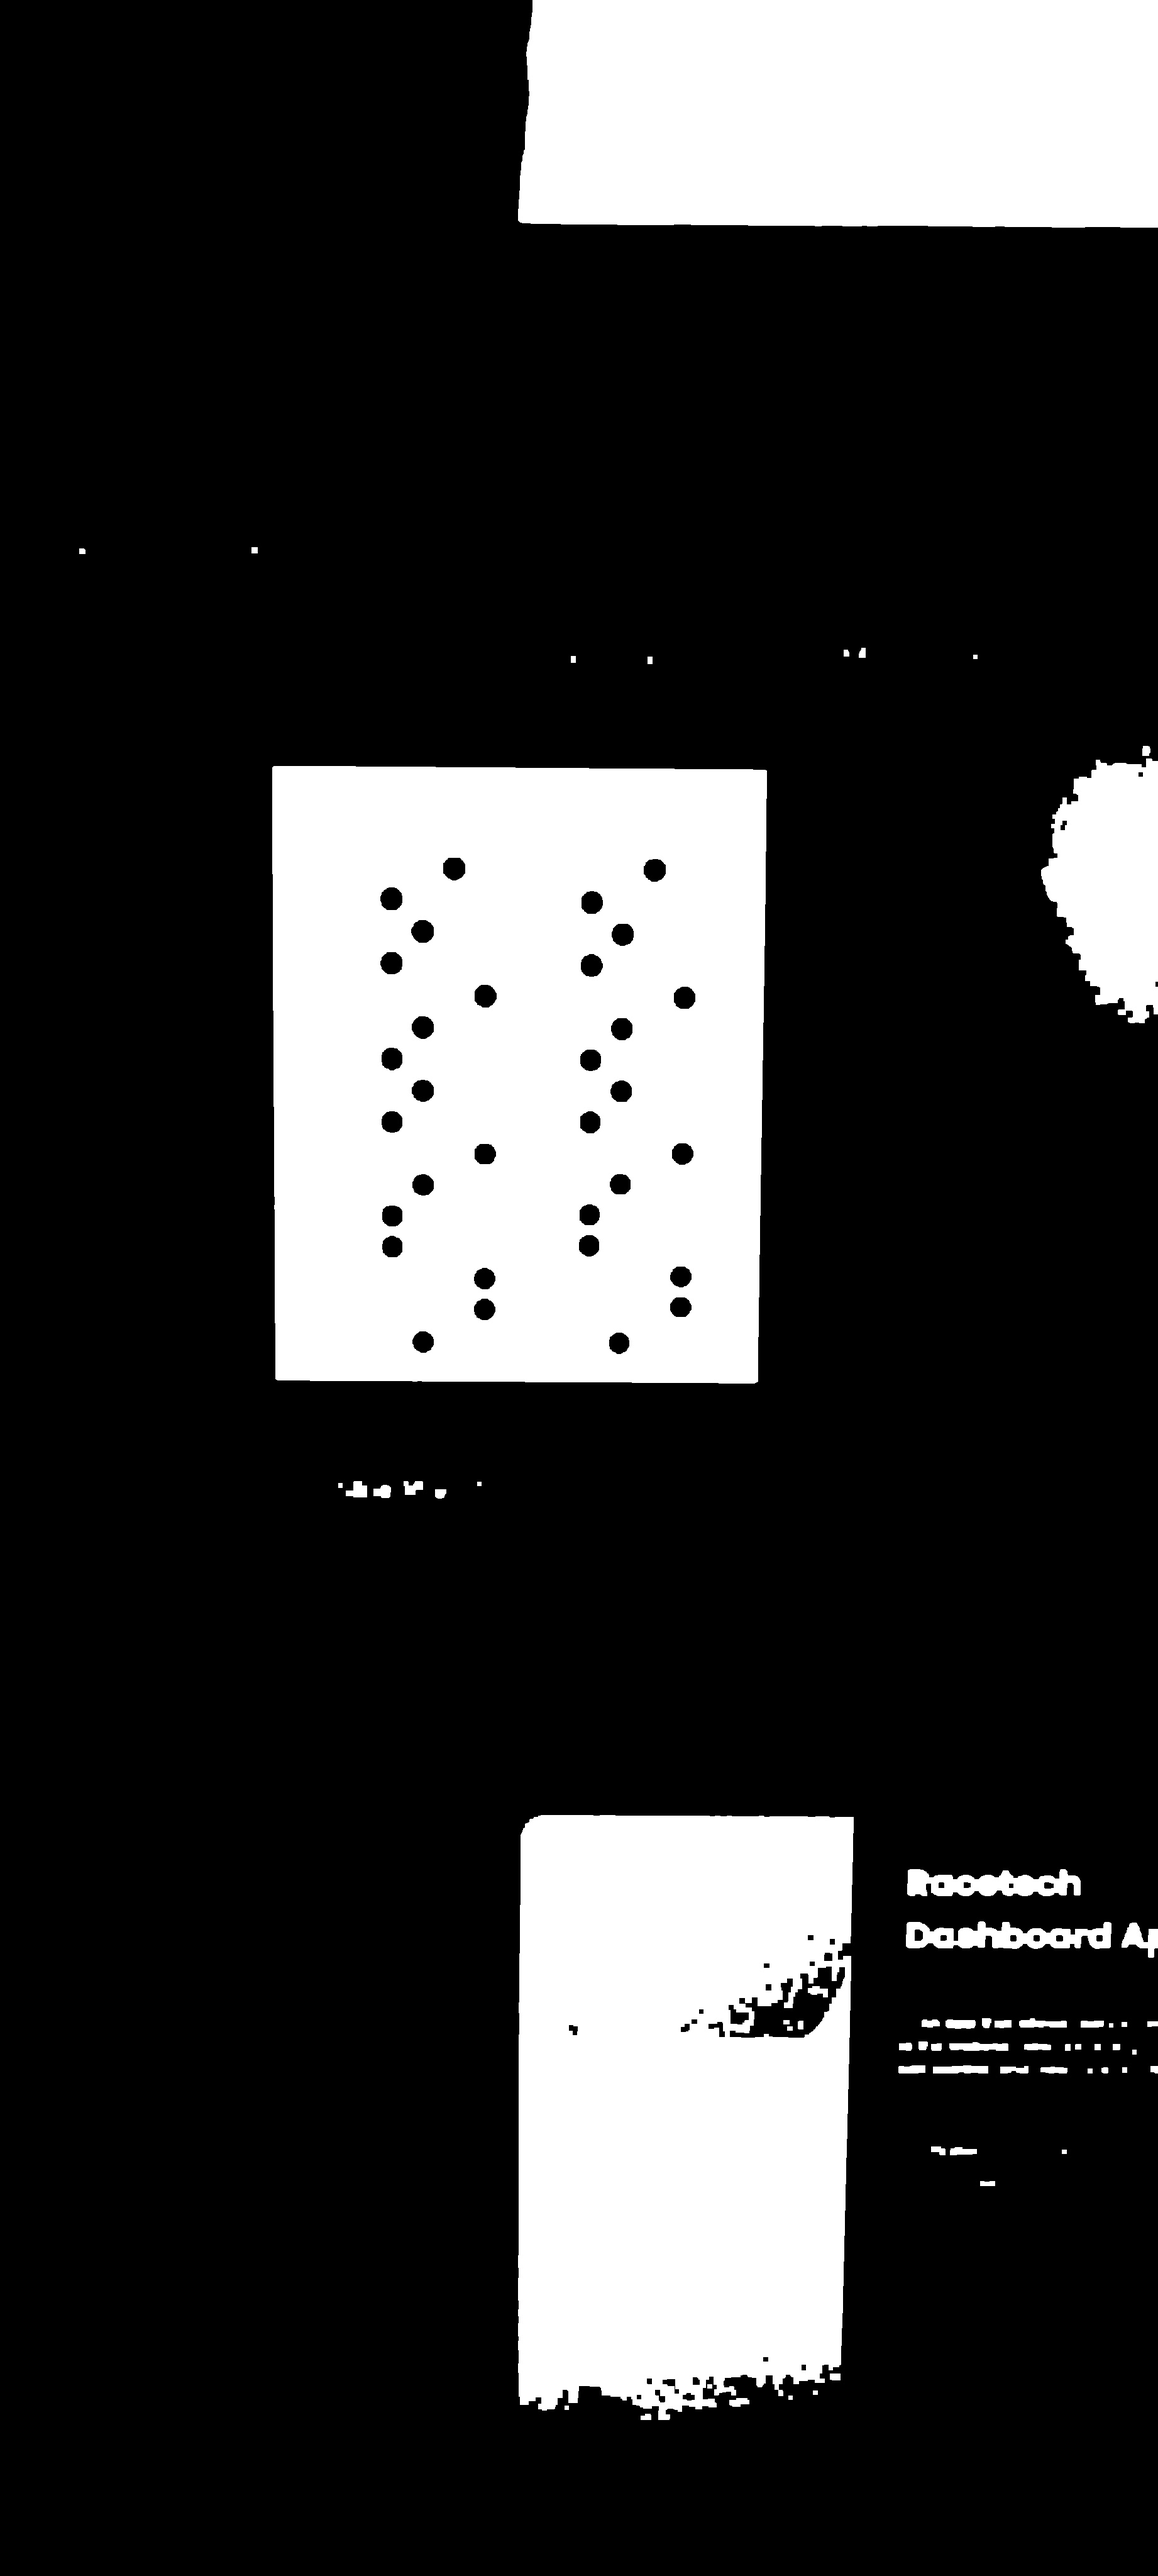
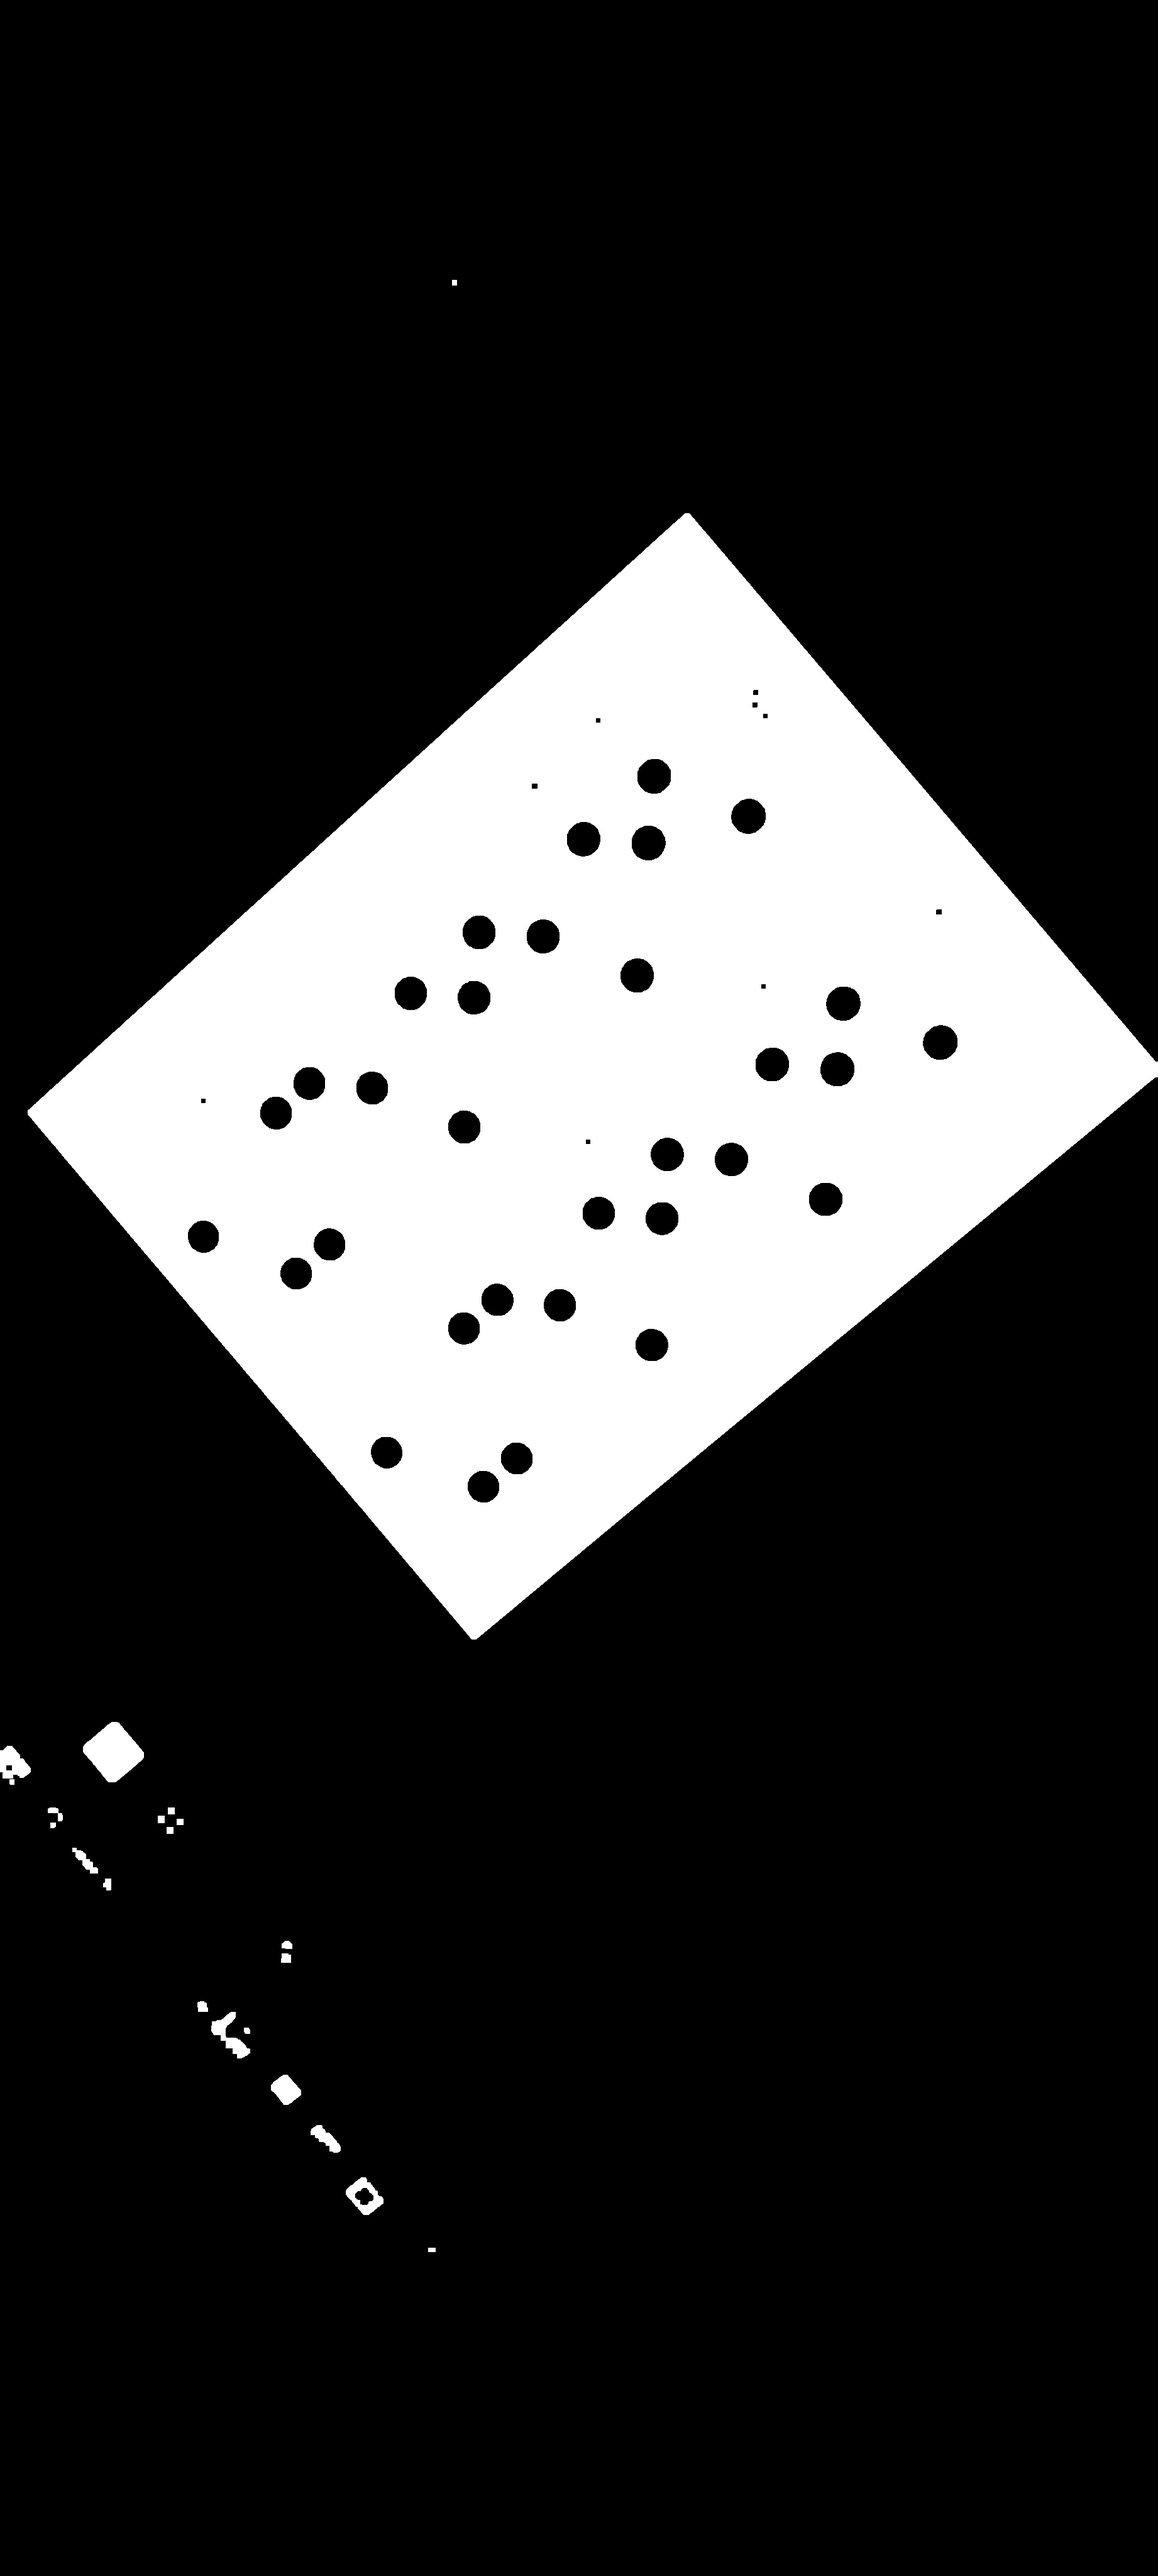
Added fastAPI

diff --git a/main.py b/main.py
@@ -1,0 +1,91 @@
+from fastapi import FastAPI, File, UploadFile, Body, status
+import cv2
+import numpy as np
+from fastapi.responses import StreamingResponse
+import io
+from pydantic import BaseModel, model_validator
+import json
+
+class ThreshSettings(BaseModel):
+    single_channel: bool
+    threshold: float = 177
+    max_value: float = 255
+    @model_validator(mode='before')
+    @classmethod
+    def validate_to_json(cls, value):
+        if isinstance(value, str):
+            return cls(**json.loads(value))
+        return value
+    
+class MorphSettings(BaseModel):
+    single_channel: bool
+    threshold: float = 177
+    max_value: float = 255
+    morph_kernel_x: int = 7
+    morph_kernel_y: int = 7
+    @model_validator(mode='before')
+    @classmethod
+    def validate_to_json(cls, value):
+        if isinstance(value, str):
+            return cls(**json.loads(value))
+        return value
+    
+app = FastAPI()
+@app.post("/thresh-image/")
+async def process_image(settings:ThreshSettings=Body(...),file:UploadFile = File(...)):
+    contents = await file.read()
+    settings.model_dump()
+    np_arr = np.frombuffer(contents, np.uint8)
+    img = cv2.imdecode(np_arr, cv2.IMREAD_COLOR)
+
+    # === Your OpenCV Logic Here ===
+    gray = cv2.cvtColor(img, cv2.COLOR_BGR2GRAY)
+    if settings.single_channel:
+        ret, thresh = cv2.threshold(gray,settings.threshold,settings.max_value,cv2.THRESH_BINARY+cv2.THRESH_OTSU)
+    else:
+        ret, thresh = cv2.threshold(img,settings.threshold,settings.max_value,cv2.THRESH_BINARY+cv2.THRESH_OTSU)
+        
+
+    # Encode back to image bytes
+    _, im_buf_arr = cv2.imencode(".jpg", thresh)
+    io_buf = io.BytesIO(im_buf_arr.tobytes())
+
+    return StreamingResponse(io_buf, media_type="image/jpeg")
+
+@app.post("/gray-image/")
+async def gray_image(file: UploadFile = File(...)):
+    contents = await file.read()
+    np_arr = np.frombuffer(contents, np.uint8)
+    img = cv2.imdecode(np_arr, cv2.IMREAD_COLOR)
+
+    # === Your OpenCV Logic Here ===
+    gray = cv2.cvtColor(img, cv2.COLOR_BGR2GRAY)
+
+    # Encode back to image bytes
+    _, im_buf_arr = cv2.imencode(".jpg", gray)
+    io_buf = io.BytesIO(im_buf_arr.tobytes())
+
+    return StreamingResponse(io_buf, media_type="image/jpeg")
+
+@app.post("/image-morph/")
+async def gray_image(settings:MorphSettings=Body(...),file: UploadFile = File(...)):
+    contents = await file.read()
+    settings.model_dump()
+    np_arr = np.frombuffer(contents, np.uint8)
+    img = cv2.imdecode(np_arr, cv2.IMREAD_COLOR)
+
+    # === Your OpenCV Logic Here ===
+    gray = cv2.cvtColor(img, cv2.COLOR_BGR2GRAY)
+    
+    ret, thresh = cv2.threshold(gray,settings.threshold,settings.max_value,cv2.THRESH_BINARY+cv2.THRESH_OTSU)
+    # apply morphology
+    kernel = np.ones((settings.morph_kernel_x,settings.morph_kernel_y), np.uint8)
+    morph = cv2.morphologyEx(thresh, cv2.MORPH_CLOSE, kernel)
+    morph = cv2.morphologyEx(morph, cv2.MORPH_OPEN, kernel)
+
+
+    # Encode back to image bytes
+    _, im_buf_arr = cv2.imencode(".jpg", morph)
+    io_buf = io.BytesIO(im_buf_arr.tobytes())
+
+    return StreamingResponse(io_buf, media_type="image/jpeg")

diff --git a/paper_detection.py b/paper_detection.py
@@ -2,7 +2,7 @@ import cv2
 import numpy as np
 
 # read image
-img = cv2.imread("./images/photo_mini.jpg")
+img = cv2.imread("./images/photo_tilted.jpg")
 
 # convert img to grayscale
 gray = cv2.cvtColor(img, cv2.COLOR_BGR2GRAY)
@@ -21,7 +21,7 @@ morph = cv2.morphologyEx(morph, cv2.MORPH_OPEN, kernel)
 # get largest contour
 contours = cv2.findContours(morph, cv2.RETR_EXTERNAL, cv2.CHAIN_APPROX_SIMPLE)
 contours = contours[0] if len(contours) == 2 else contours[1]
-area_thresh = 0
+area_thresh = 5
 for c in contours:
     area = cv2.contourArea(c)
     if area > area_thresh:
